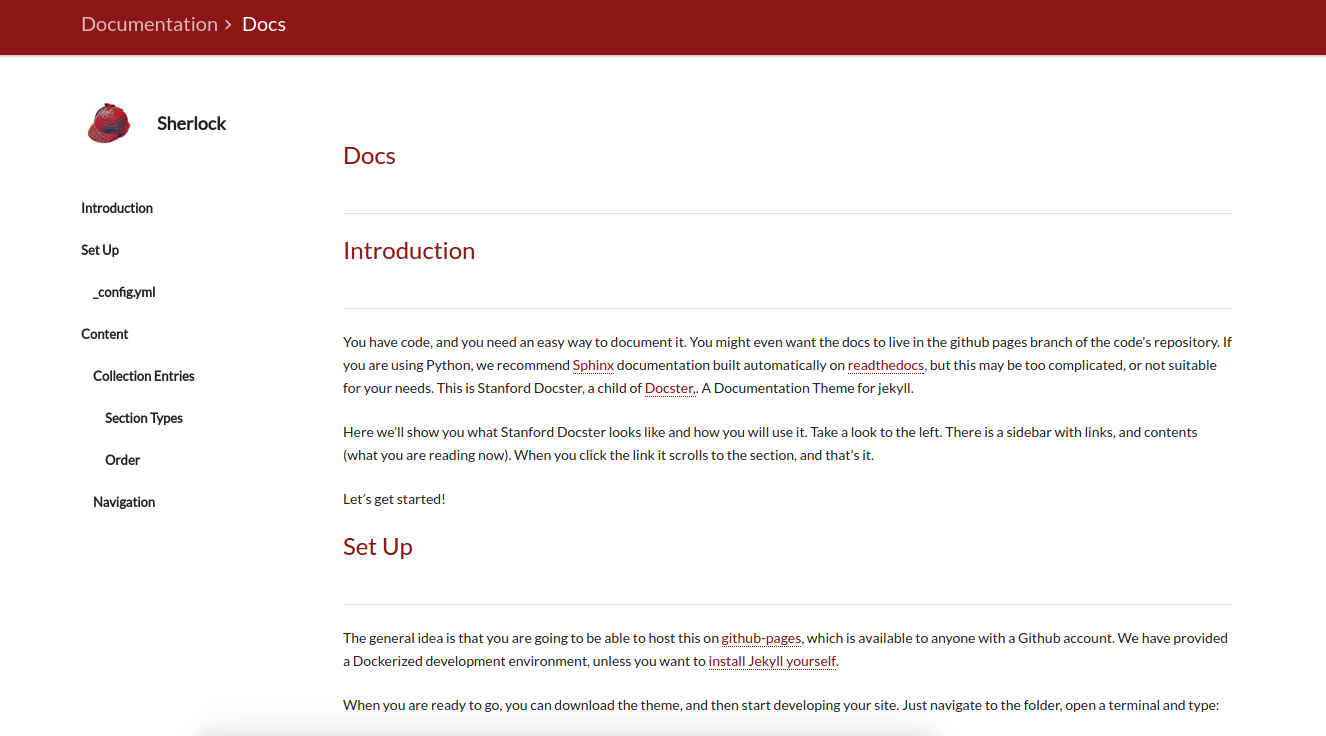
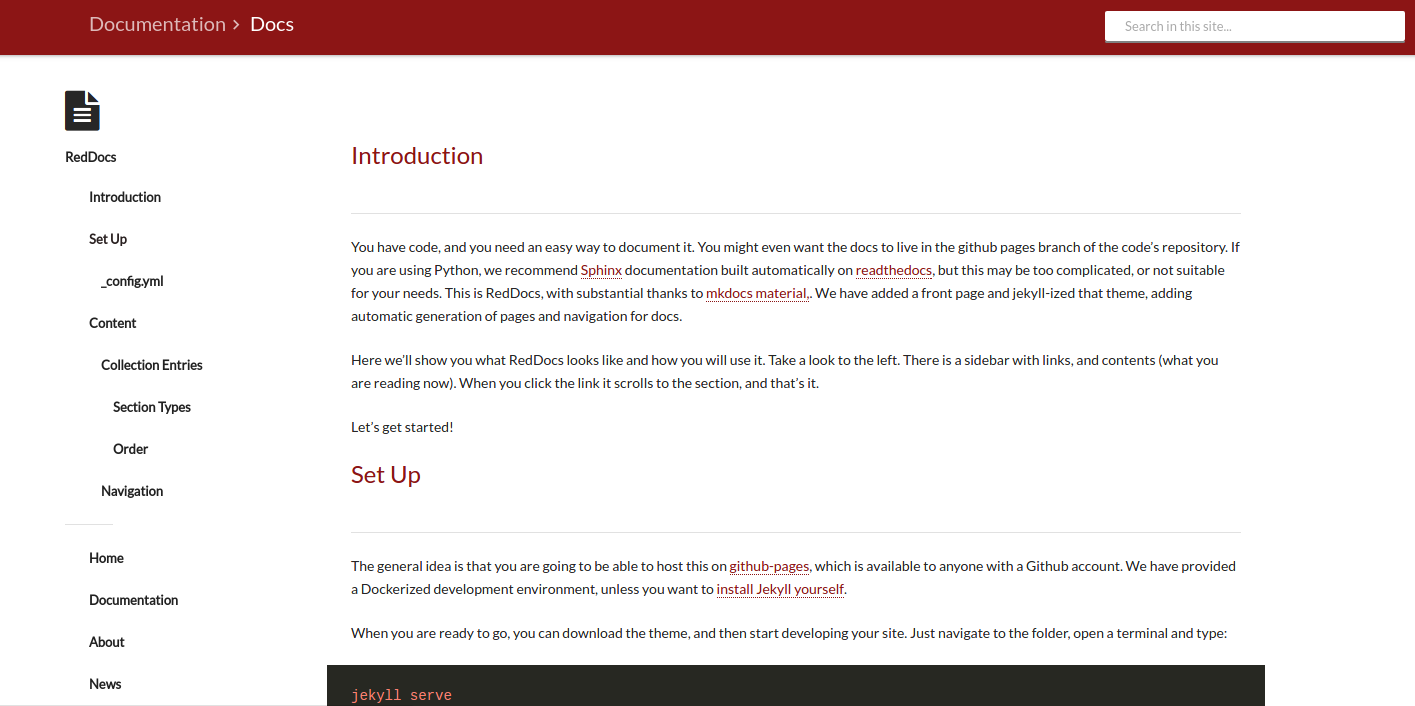
updating images for README

diff --git a/_layouts/page.html b/_layouts/page.html
@@ -62,8 +62,11 @@ layout: default
       </div>
       <article class="article">
         <div class="wrapper">
-                              
+                   
+            {% if page.hidetitle %} 
+            {% else %}          
             <h1>{{ page.title }}</h1>
+            {% endif %}
             {{ content }}
 
             <aside class="copyright" role="note">            

diff --git a/README.md b/README.md
@@ -47,9 +47,7 @@ Any page that you add, meaning an `html` or `markdown` file in the [pages](pages
 
       sidebar: true
 
-When left undefined (desired for pages like news, 404, etc), this sidebar will be different:
-
-![img/sidebar.png](img/sidebar.png)
+When left undefined (desired for pages like news, 404, etc), this sidebar will not include the docs.
 
 
 ### How do the docs work?

diff --git a/pages/docs.md b/pages/docs.md
@@ -3,6 +3,7 @@ layout: page
 title: Docs
 permalink: /docs
 sidebar: true
+hidetitle: true
 ---
 
 {% assign entries = site.docs | sort: "number" %}
